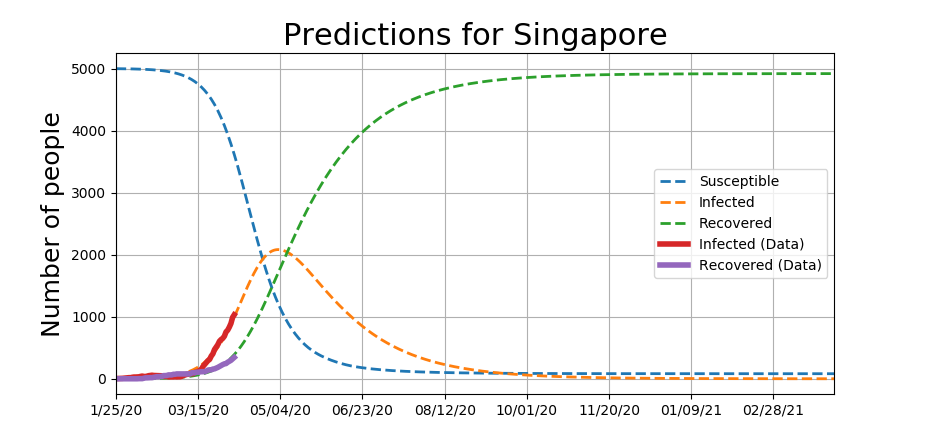
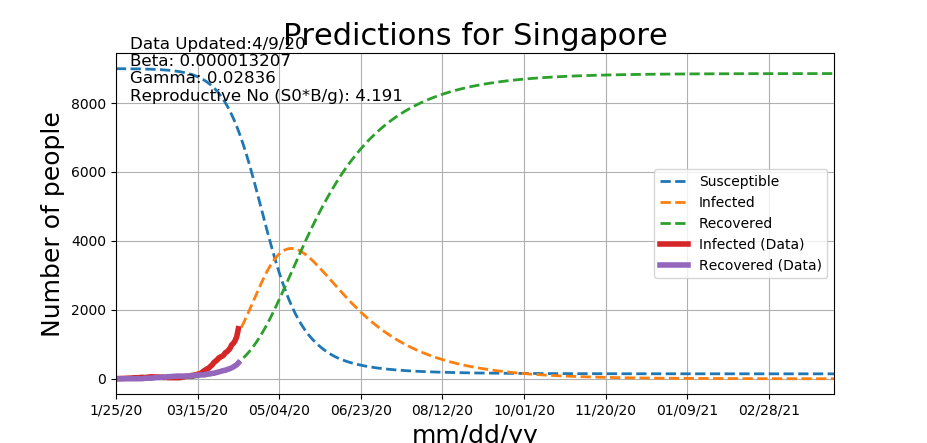
Added classes

diff --git a/covid_class.py b/covid_class.py
@@ -1,0 +1,162 @@
+###############################################################################
+#
+# SIR Model for Covid-19
+# Data from John-Hopkins University
+#
+# By Chi Hin, Jean Phillipe
+#
+# Class: COVID
+#
+###############################################################################
+
+import numpy as np
+import scipy as sp
+import pandas as pd
+import matplotlib.dates as mdates
+import matplotlib.pyplot as plt
+from datetime import datetime, timedelta
+from scipy.integrate import solve_ivp
+from scipy.optimize import minimize
+
+
+# Class COVID
+class Covid:
+    def __init__(self, country, state, start_date):
+        self.country  = country
+        self.state = state
+        self.start_date = start_date
+
+    def load(self):
+        c_df = pd.read_csv('time_series_covid19_confirmed_global.csv')
+        r_df = pd.read_csv('time_series_covid19_recovered_global.csv')
+        # Saving end date
+        self.end_date = c_df.columns[-1]
+        
+        # Parsing confirmed/recovered cases from csv
+        if self.state == "":
+            c_df = c_df[c_df['Province/State'].isnull()]
+            c_df = c_df[c_df['Province/State'].isnull()]
+            self.confirmed = c_df[c_df['Country/Region'] == self.country].iloc[0].loc[self.start_date:]
+            self.recovered = r_df[r_df['Country/Region'] == self.country].iloc[0].loc[self.start_date:]
+            print("Country Selected: " + self.country)
+        elif self.state != 0:
+            self.confirmed = c_df[c_df['Province/State'] == self.state].iloc[0].loc[self.start_date:]
+            self.recovered = r_df[r_df['Province/State'] == self.state].iloc[0].loc[self.start_date:]
+            print("State Selected: " + self.state)
+        else:
+            print("Invalid Country/Province Enter")            
+        
+        # Truncate last element to fit recovered data
+        self.confirmed = self.confirmed.values 
+        self.recovered = self.recovered.values
+        
+        # I(t)
+        self.infected = self.confirmed - self.recovered
+        print('Data loaded Successful!')
+    
+    def find_beta_gamma(self, N, alpha):
+        
+        # Number of infected at t0 for ODE Solver
+        self.I0 = 2
+        self.S0 = N-self.I0
+        self.R0 = 0
+        
+        # Finding Beta and Gamma by optimisation optimise
+        optimal = minimize(cost, 
+                   [0.00001, 0.00001], 
+                   args=(self.infected, self.recovered, [self.S0, self.I0, self.R0], alpha),
+                   method='L-BFGS-B',
+                   bounds=[(0.00000001, 0.8), (0.00000001, 0.8)])
+        
+        # Saving optimal beta/gamma into private variables
+        self.beta = optimal.x[0]
+        self.gamma = optimal.x[1]
+        
+    def predict(self, day):
+        # ODE Function
+        def sir(t, y):
+
+            # Outputs
+            S = y[0]
+            I = y[1]
+            R = y[2]
+            
+            return [-self.beta*I*S, self.beta*I*S - self.gamma*I, self.gamma*I]
+        
+        # Extending simulation based on how many days
+        t_extend = len(self.confirmed) + day
+        t = np.linspace(0, t_extend, t_extend)
+        # Solving SIR
+        res = solve_ivp(sir, 
+                        [0, t_extend], 
+                        [self.S0, self.I0, self.R0],
+                        t_eval=np.arange(0,t_extend,1))
+        
+        # Preparing date axis
+        date_format = '%m/%d/%y'
+        time = self.start_date
+        for i in range(t_extend-1):
+            time_add = datetime.strptime(self.start_date, date_format) + timedelta(days=i+1)
+            time = np.append(time, time_add.strftime(date_format))
+        
+        # Adding NaN values of to official data for plotting
+        self.infected = np.concatenate((self.infected, [None] * (t_extend-len(self.infected))))
+        self.recovered = np.concatenate((self.recovered, [None] * (t_extend-len(self.recovered))))
+        
+        # Plotting routines
+        plt.close()
+        df = pd.DataFrame({'Susceptible': res.y[0], 
+                            'Infected': res.y[1], 
+                            'Recovered': res.y[2], 
+                            "Infected (Data)": self.infected, 
+                            "Recovered (Data)": self.recovered}, 
+                            index=time)
+        fig, ax = plt.subplots(figsize = (12,12))
+        df['Susceptible'].plot(linestyle = '--', linewidth = 2)
+        df['Infected'].plot(linestyle = '--', linewidth = 2)
+        df['Recovered'].plot(linestyle = '--', linewidth = 2)
+        df['Infected (Data)'].plot(linewidth = 4)
+        df['Recovered (Data)'].plot(linewidth = 4)
+        plt.ylabel("Number of people", fontsize=18)
+        plt.xlabel("mm/dd/yy", fontsize=18)
+        info = ( "Data Updated:" + self.end_date + '\n' 
+                + "Beta: " + str("{:.9f}".format(self.beta)) + '\n' 
+                + "Gamma: " + str("{:.5f}".format(self.gamma)) + '\n' 
+                + "S0: " + str(self.S0) + '\n' 
+                + "Reproductive No (S0*B/g): "+ str("{:.3f}".format(self.S0*self.beta/self.gamma)) 
+                )
+        plt.text(0.02, 0.95, info, fontsize = 12, horizontalalignment='left', verticalalignment='center', transform = ax.transAxes)
+        plot_title = ('Predictions for ' + self.country + " " + self.state + " to " + time[-1])
+        plt.title(plot_title, fontsize=22)
+        plt.legend()
+        plt.grid()
+        plt.show()
+        
+# Cost function
+def cost(point, infect_data, recovered_data, init, alpha):
+    
+    beta, gamma = point
+    
+    # ODE Function
+    def sir(t, y):
+            
+        # Outputs
+        S = y[0]
+        I = y[1]
+        R = y[2]
+        
+        return [-beta*I*S, beta*I*S - gamma*I, gamma*I]
+   
+    # Solving ODE 
+    res = solve_ivp(sir, 
+                    [0, len(infect_data)], 
+                    [init[0], init[1], init[2]],
+                    t_eval=np.arange(0,len(infect_data),1))
+  
+    # Returns RMSE
+    rmse_infect = np.sqrt(np.mean((res.y[1] - infect_data)**2)) 
+    rmse_recoverd = np.sqrt(np.mean((res.y[2] - recovered_data)**2)) 
+    
+    # Defining weights
+    print(alpha*rmse_infect + (1-alpha)*rmse_recoverd)
+    return alpha*rmse_infect + (1-alpha)*rmse_recoverd

diff --git a/main.py b/main.py
@@ -1,0 +1,27 @@
+###############################################################################
+#
+# SIR Model for Covid-19
+# Data from John-Hopkins University
+#
+# By Chi Hin, Jean Phillipe
+#
+###############################################################################
+
+
+
+from covid_class import Covid
+
+# Initialise class Covid("Country", "State", "Start Date")
+# If no state leave it is ""
+sg = Covid("Singapore", "", "1/22/20")
+
+# Loads Data from John Hopkins
+sg.load()
+
+# find_beta_gamma(S0, alpha)
+# Input Total Population N s.t S0 = N - 2
+# Alpha = (1-alpha)*rmse_recoverd + alpha*rmse_infect
+sg.find_beta_gamma(7000, 0.1)
+
+# predict(days) -> days refers to the limits of ODE solver since start date
+sg.predict(200)

diff --git a/SIR.py b/SIR.py
@@ -109,7 +109,8 @@ c_df = pd.read_csv('time_series_covid19_confirmed_global.csv')
 r_df = pd.read_csv('time_series_covid19_recovered_global.csv')
 # Saving end date
 end_date = c_df.columns[-1]
-country = "Singapore"
+country = "United Kingdom"
+state = ""
 start_date = "1/25/20"
 
 # Parsing confirmed/recovered cases from csv
@@ -130,9 +131,6 @@ N = 9000
 I0 = 2
 S0 = N-I0
 R0 = 0
-
-# S(t) = N - I(t) - R(t)
-S = N - confirmed
 
 # Parameters to optimise
 optimal = minimize(cost, 

diff --git a/SIR_class.py b/SIR_class.py
@@ -1,0 +1,19 @@
+###############################################################################
+#
+# SIR Model for Covid-19
+# Data from John-Hopkins University
+#
+# By Chi Hin, Jean Phillipe
+#
+###############################################################################
+
+
+
+from covid_class import Covid
+
+
+
+sg = Covid("Singapore", "1/25/20")
+sg.load()
+sg.find_beta_gamma(6000)
+sg.predict(200)
